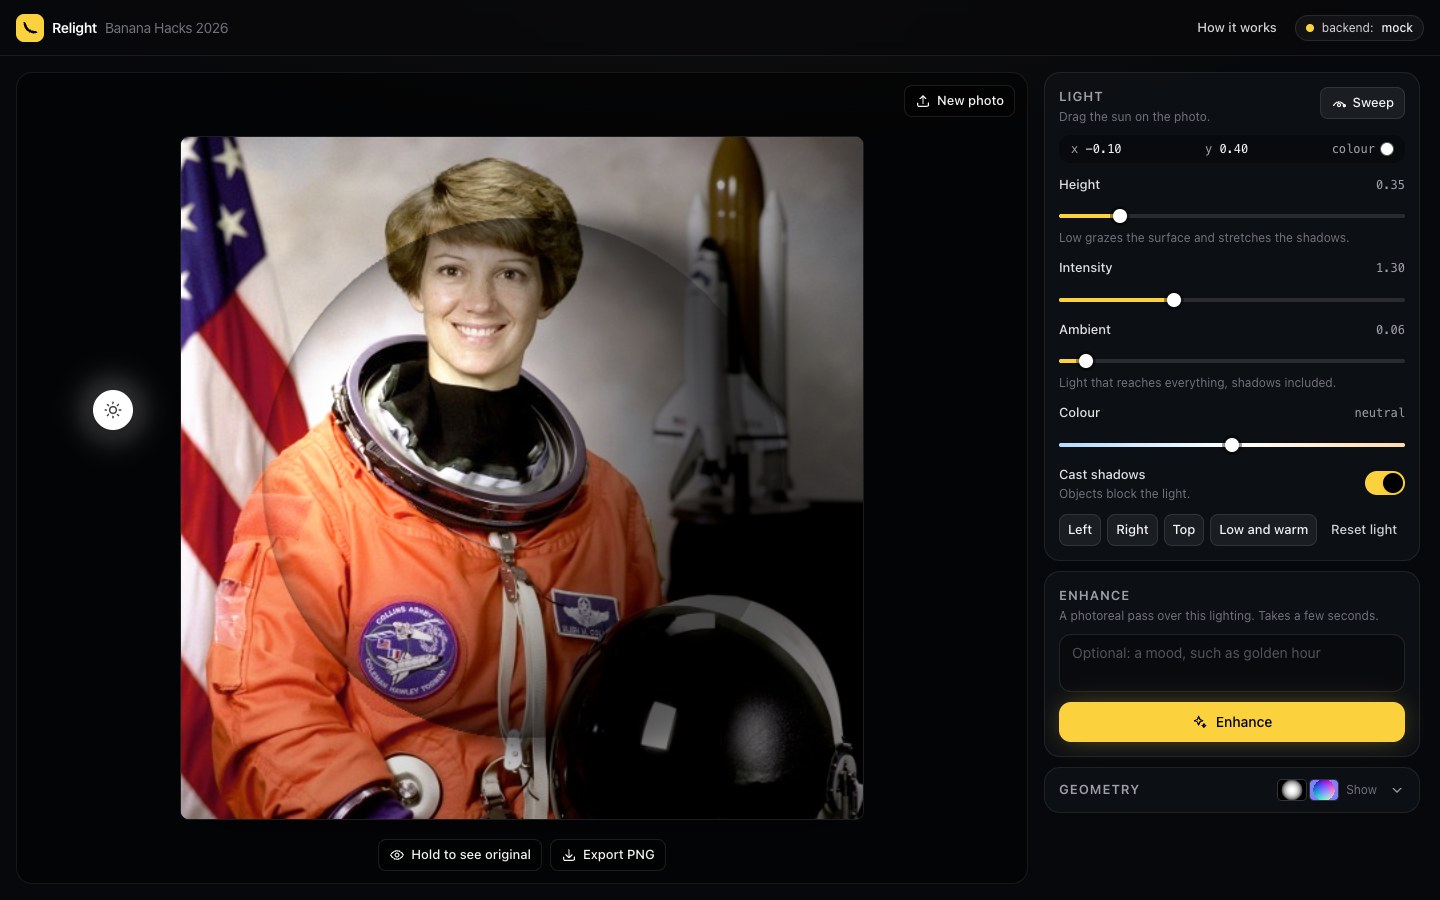
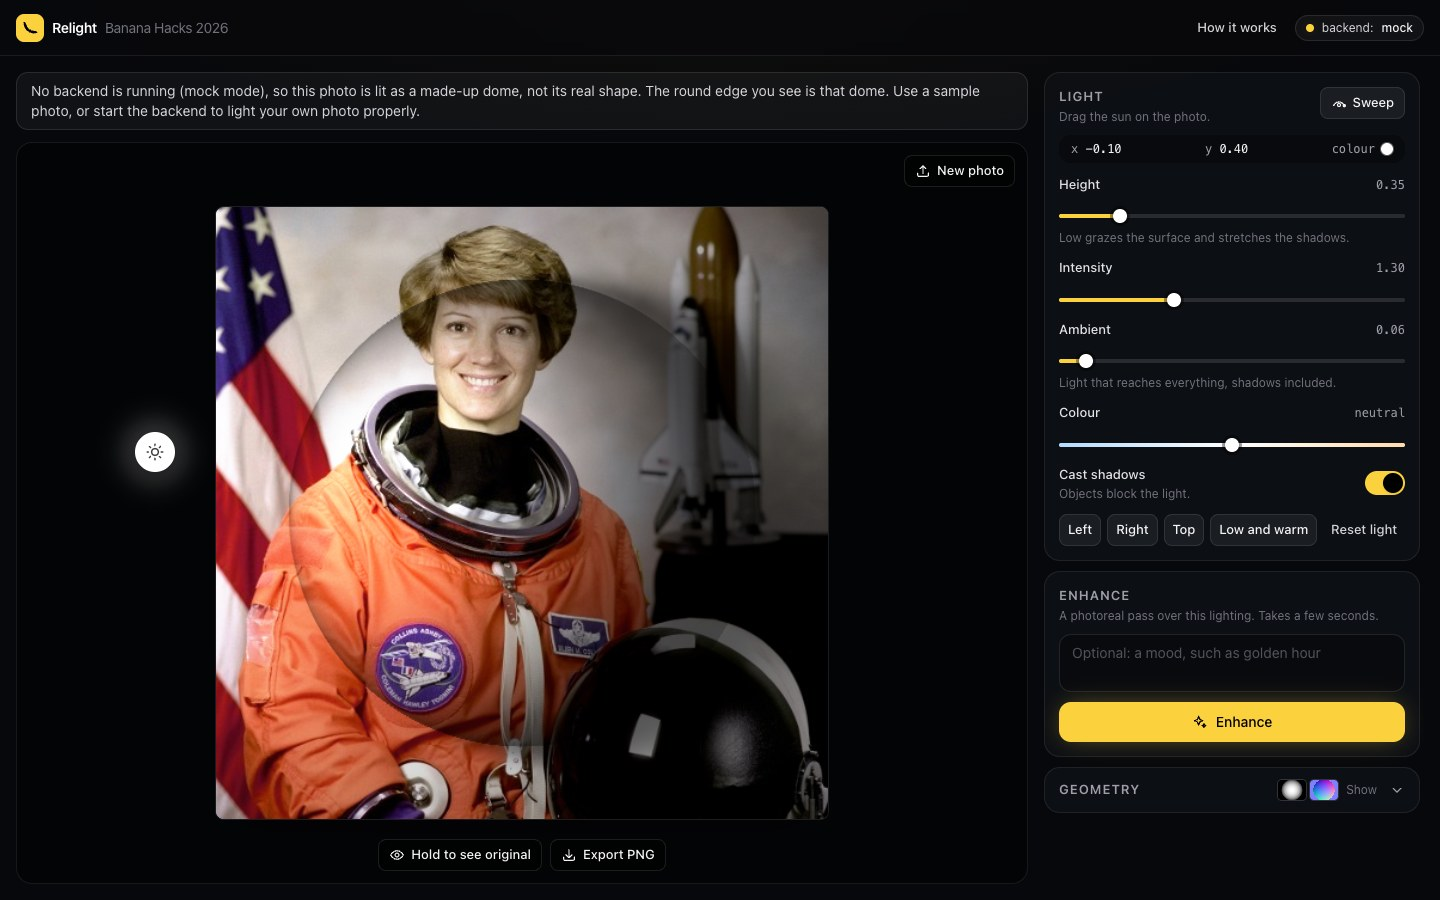
Say on the page when an uploaded photo is lit as a stand-in dome
In mock mode there is no backend to work out a photo's shape, so an
upload is lit as a made-up dome. A tester on Windows reported the dome
as an "invisible sphere" (issue 3). It was on the known-issues list,
but nothing on the page explained it. A grey note above the photo now
does, for uploads in mock mode only; the four samples are unaffected.

Changed region(s): [[0.0312, 0.0933, 0.6875, 0.9333], [0.6562, 0.1867, 0.6875, 0.2178]]

diff --git a/frontend/app/relight/page.tsx b/frontend/app/relight/page.tsx
@@ -56,6 +56,9 @@ const ENHANCE_HINT = "A photoreal pass over this lighting. Takes a few seconds."
 const SERVER_RENDER_OFFLINE = `Cannot reach the backend at ${API_URL}. Is it running?`;
 /** The static demo: why uploading and Enhance are missing. */
 const DEMO_UPLOAD_NOTE = "Uploading your own photo needs the Relight server, which this demo runs without.";
+const STAND_IN_SHAPE_NOTE =
+  "No backend is running (mock mode), so this photo is lit as a made-up dome, not its real shape. The round edge you see is that dome. Use a sample photo, or start the backend to light your own photo properly.";
+
 const DEMO_ENHANCE_NOTE = "Enhance needs the Relight server, which this demo runs without.";
 /**
  * Shading on the processor: a full-quality picture that takes longer than this,
@@ -518,6 +521,10 @@ export default function RelightPage() {
           : `Live shading is unavailable (${localProblem}). Showing server renders instead, which lag slightly behind the light.`;
   const onProcessor = path !== null && path.kind.startsWith("cpu");
   // A quiet line for the slower ways of shading that still work. The red bar above is for when none does.
+  // In mock mode there is no backend to work out a photo's shape, so an upload
+  // is lit as a made-up dome. A tester reported that dome as a bug: say what it is.
+  const standInShape = MOCK && scene !== null && !isSampleScene(scene);
+
   const shadingNote =
     localProblem !== null || !ready || path === null
       ? null
@@ -760,6 +767,7 @@ export default function RelightPage() {
       <ErrorBanner message={error} onDismiss={() => setError(null)} />
       <ErrorBanner message={enhanceError} onDismiss={enhance.reset} className="max-lg:hidden" />
       <ErrorBanner message={gpuMessage} onRetry={!DEMO && server.error !== null ? server.retry : undefined} />
+      <ShadingNote message={standInShape ? STAND_IN_SHAPE_NOTE : null} />
       <ShadingNote message={shadingNote} />
 
       <Stage hug={{ width, height }}>

diff --git a/testing/PENDING.md b/testing/PENDING.md
@@ -22,7 +22,7 @@ The developer deletes a line when the problem is fixed. If a line is gone, the p
 - **K17. A thin light outline with Detailed normals off.** With the **Detailed normals** switch off, a thin light line shows round the astronaut's head and shoulders. Cases: P-04, Q-08.
 - **K18. Intensity 0.00 is not black.** With **Intensity** at 0.00 the picture is very dark but still visible, because the **Ambient** light (0.06) still reaches it. Set Ambient to 0.00 as well for black. Case: C-02.
 - **K11. Stand-in Enhance: the two halves are nearly the same.** In the normal setup Enhance is a stand-in, so "Enhanced" looks like "Live preview"; tiny differences in shadow softness are expected (two different programs draw them). Cases: E-03, Q-10.
-- **K19. Plan B (mock mode): an uploaded photo is lit as a round dome.** In mock mode an uploaded file gets a made-up shape, and the edge of the dome shows as a circle. The four samples are lit correctly in mock mode. Case: R-08.
+- **K19. Plan B (mock mode): an uploaded photo is lit as a round dome.** In mock mode an uploaded file gets a made-up shape, and the edge of the dome shows as a circle. The four samples are lit correctly in mock mode. Since the night of Oct 10 a grey note above the photo says so ("No backend is running (mock mode), so this photo is lit as a made-up dome…"); a tester had reported the dome as a bug (issue 3). Case: R-08.
 
 **Buttons, words and layout**
 
@@ -126,6 +126,7 @@ The developer adds a line here whenever something is checked, fixed or newly fou
 | Date | Item | What changed |
 | --- | --- | --- |
 | 2026-10-10, 9:20 PM | testers, app and kit | Third tester report, from Aaroosh, told to the developer directly: see "Confirmed by testers". G-06 and G-04 pass in Chrome on the M5 MacBook; the first real phone, reached over Wi-Fi, reports "shading: graphics chip, full quality". Three things it turned up are fixed. (1) Version `378919a`: opened by the computer's network address, the page loaded but nothing in it reacted, so W-16 step 8 could never have worked. The developer found this while preparing the phone test. (2) Version `53e2c26`: on a phone, Back with the "How it works" panel open left the app; Back now closes the panel. (3) Version `53e2c26`: Sweep moved almost twice as fast in its first and last second as in between; it now keeps one steady speed along the same path, still in 6 seconds. Also in `53e2c26`: the card's scrolling text gets the page's yellow outline when the Tab key selects it. Kit: W-16 step 8, L-09, G-03 (new step 8), G-04 and G-05 step 4 brought up to date; the table "Cases a person has run" added; TEST_FIRST and README say who works from which end of the plan. No screenshot was retaken. Not seen by the developer: the Back fix on a real phone (checked in Chrome on a Mac only), and the new sweep by eye (its speed was checked by running the code frame by frame). |
+| 2026-10-10, night | app and testers | Issue 3: a tester uploaded his own photo in Plan B and reported the stand-in dome as an "invisible sphere". It was known issue K19, but nothing on the page said so. The page now shows a grey note for an uploaded photo in mock mode. Screenshot 56 retaken. |
 | 2026-10-10, night | testers | Issue 2, second follow-up: tested build was `34be081`; no layout cut-off on Windows; dragging and Sweep are smooth on Intel UHD graphics, the weakest chip tried so far. |
 | 2026-10-10, night | testers | Issue 2, follow-up: live shading works at full quality on Intel UHD graphics (Windows 11, Chrome 154, Direct3D 11). Two different graphics chips and three browsers have now run the shader. |
 | 2026-10-10, night | testers and kit | Second tester report (issue 2), the first from Windows: found that `npm` is blocked in PowerShell and `npm.cmd` works; SETUP.md corrected. The report did not say whether the light worked, so the test-result form now asks that first, in three lines that are hard to skip. |

diff --git a/testing/TEST_PLAN.md b/testing/TEST_PLAN.md
@@ -1305,7 +1305,7 @@ Needs the frontend started as in [SETUP.md Plan B](SETUP.md#plan-b-no-backend-mo
 
 1. Open the page. 2. Click the **Cat** sample. Click **Left**. 3. Click **New photo**. Choose the astronaut **file**. Click **Left**. 4. Open GEOMETRY. Toggle **Detailed normals**. 5. Click **Enhance** and wait.
 
-**Expected:** pill: yellow pulsing dot, "backend: mock". The first page shows the same four sample thumbnails. Step 2: the sample opens at once and is lit **correctly**: the shading follows the cat's face, because a sample carries its own real shape. Step 3: an uploaded file loads in about 1 second, but its lighting is a made-up round dome in the middle of the picture, not the real face: a large circle outline with soft shading inside it. That is expected in this mode. In GEOMETRY, Depth is a white round blob and Normals a rainbow circle, relief 0.3. Step 4: toggling Detailed normals on the uploaded file reloads but changes nothing visible. (On a sample the switch is greyed in this mode: P-09.) Step 5: Enhance takes about 4 seconds; the "Enhanced" half has a little more contrast and a faint soft glow. The difference is small. Report only if the two halves show different pictures.
+**Expected:** A grey note above the photo reads "No backend is running (mock mode), so this photo is lit as a made-up dome, not its real shape. The round edge you see is that dome. Use a sample photo, or start the backend to light your own photo properly." The note does not appear on the four samples. pill: yellow pulsing dot, "backend: mock". The first page shows the same four sample thumbnails. Step 2: the sample opens at once and is lit **correctly**: the shading follows the cat's face, because a sample carries its own real shape. Step 3: an uploaded file loads in about 1 second, but its lighting is a made-up round dome in the middle of the picture, not the real face: a large circle outline with soft shading inside it. That is expected in this mode. In GEOMETRY, Depth is a white round blob and Normals a rainbow circle, relief 0.3. Step 4: toggling Detailed normals on the uploaded file reloads but changes nothing visible. (On a sample the switch is greyed in this mode: P-09.) Step 5: Enhance takes about 4 seconds; the "Enhanced" half has a little more contrast and a faint soft glow. The difference is small. Report only if the two halves show different pictures.
 
 ![R-08 first page](screenshots/54-mock-landing.jpg)
 ![R-08 pill](screenshots/55-mock-status.jpg)
